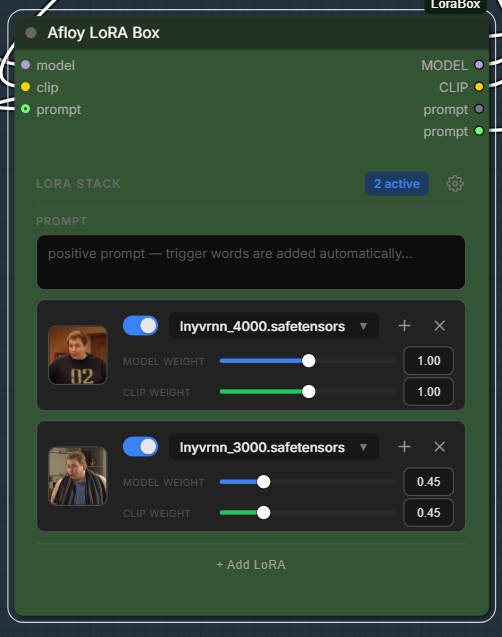
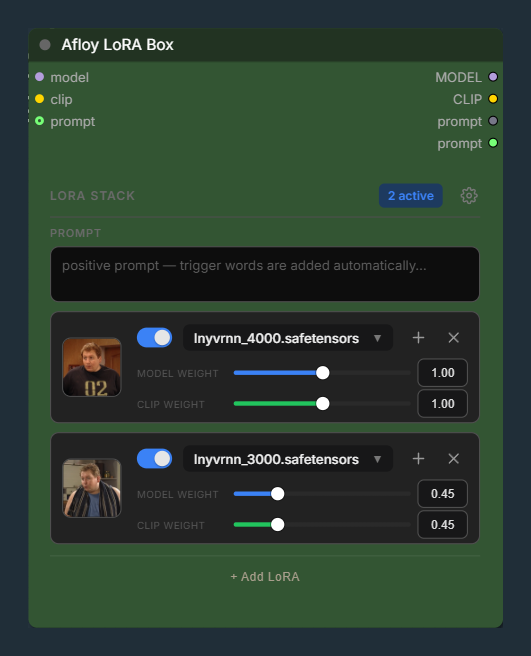
docs: tidy the hero screenshot (crop wire stubs, center, constrain width)

diff --git a/README.md b/README.md
@@ -7,7 +7,7 @@ A compact multi-LoRA loader for [ComfyUI](https://github.com/comfyanonymous/Comf
 [![ComfyUI](https://img.shields.io/badge/ComfyUI-compatible-8A2BE2?style=flat-square)](https://github.com/comfyanonymous/ComfyUI)
 [![Version](https://img.shields.io/badge/version-1.6.5-059669?style=flat-square)](https://github.com/afloy011-spec/ComfyUI-LoraBox/tags)
 
-![Afloy Lora Box node](assets/node.png)
+<p align="center"><img src="assets/node.png" alt="Afloy Lora Box node" width="430"></p>
 
 <p>
 <a href="https://github.com/afloy011-spec/ComfyUI-LoraBox/archive/refs/heads/main.zip"><img src="https://img.shields.io/badge/Download_ZIP-059669?style=for-the-badge&logo=github&logoColor=white" alt="Download ZIP" height="32"></a>&nbsp;
